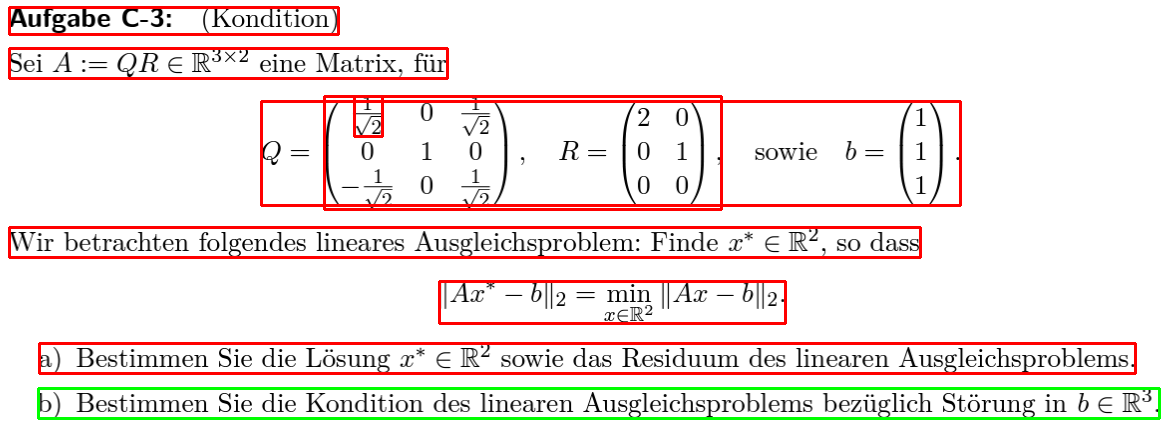
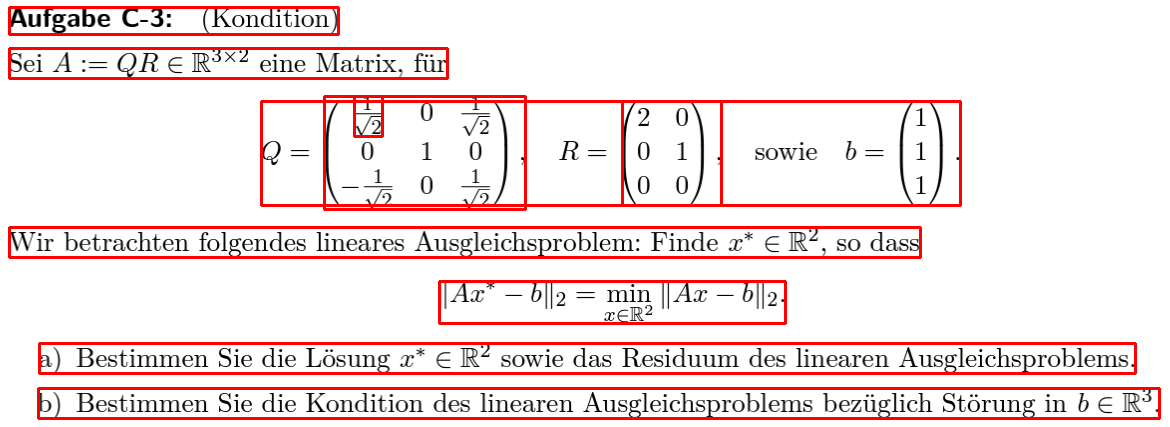
Geometric segmentation.

Changed region(s): [[0.0308, 0.8829, 1.0, 1.0], [0.4308, 0.2131, 0.6154, 0.2436], [0.4615, 0.4871, 0.6154, 0.5176]]

diff --git a/src/llama_vision_project/ocr.py b/src/llama_vision_project/ocr.py
@@ -6,21 +6,54 @@ from texify.model.model import load_model
 from texify.model.processor import load_processor
 import numpy as np
 import time
+from concurrent.futures import ThreadPoolExecutor, Future
+from queue import Queue
+from threading import Event
 
 class OCRProcessor:
     def __init__(self):
         """Initialize OCR processor with necessary configs."""
-        start_time = time.time()
+        self.initialization_done = Event()
+        self.model = None
+        self.processor = None
+        self.tesseract_ready = False
+        
+        # Start initialization in background
+        self.executor = ThreadPoolExecutor(max_workers=2)
+        self.init_future = self.executor.submit(self._init_components)
+
+    def _init_components(self):
+        """Initialize components in background."""
         print("Initializing OCR processor...")
+        start_time = time.time()
         
-        # Configure tesseract path for Windows
-        pytesseract.pytesseract.tesseract_cmd = r'C:\Program Files\Tesseract-OCR\tesseract.exe'
+        # Start both initializations in parallel
+        texify_future = self.executor.submit(self._init_texify)
+        tesseract_future = self.executor.submit(self._init_tesseract)
         
-        # Initialize Texify model and processor
-        print("Loading Texify model...")
-        self.model = load_model()
-        self.processor = load_processor()
+        # Wait for both to complete
+        self.model, self.processor = texify_future.result()
+        self.tesseract_ready = tesseract_future.result()
+        
         print(f"Initialization completed in {time.time() - start_time:.2f}s")
+        self.initialization_done.set()
+    
+    def _init_texify(self):
+        """Initialize Texify model and processor."""
+        print("Loading Texify model...")
+        model = load_model()
+        processor = load_processor()
+        return model, processor
+    
+    def _init_tesseract(self):
+        """Initialize Tesseract OCR."""
+        pytesseract.pytesseract.tesseract_cmd = r'C:\Program Files\Tesseract-OCR\tesseract.exe'
+        try:
+            pytesseract.get_languages()
+            return True
+        except Exception as e:
+            print(f"Warning: Tesseract initialization issue: {e}")
+            return False
 
     def visualize_regions(self, image, text_regions, math_regions, filename='debug_regions.png'):
         """Draw boxes around detected regions for debugging."""
@@ -49,8 +82,9 @@ class OCRProcessor:
         current_y = sorted_boxes[0][1]
 
         # Adjusted tolerances
-        vertical_tolerance = 20  # Reduced vertical tolerance
-        horizontal_tolerance = 30  # Reduced horizontal tolerance for more precise merging
+        vertical_tolerance = 20  # For line detection
+        horizontal_tolerance = 40  # Increased for equation parts
+        equation_tolerance = 150  # For long equations with equals signs
 
         for box in sorted_boxes[1:]:
             x, y, w, h = box
@@ -66,8 +100,19 @@ class OCRProcessor:
                     h_gap = x - (curr_x + curr_w) if x > curr_x + curr_w else curr_x - (x + w)
                     v_gap = abs(y - curr_y)
                     
-                    # More strict merging conditions
-                    if h_gap < horizontal_tolerance and v_gap < vertical_tolerance:
+                    # Check for equation patterns in the regions
+                    region1 = thresh[curr_y:curr_y+curr_h, curr_x:curr_x+curr_w]
+                    region2 = thresh[y:y+h, x:x+w]
+                    text1 = pytesseract.image_to_string(region1, config='--psm 6')
+                    text2 = pytesseract.image_to_string(region2, config='--psm 6')
+                    
+                    # Conditions for merging
+                    basic_merge = h_gap < horizontal_tolerance and v_gap < vertical_tolerance
+                    equation_merge = h_gap < equation_tolerance and ('=' in text1 or '=' in text2)
+                    matrix_merge = h_gap < equation_tolerance and any(c in text1 + text2 for c in ['Q', 'R', 'b']) and \
+                                 any(c in text1 + text2 for c in ['(', ')', '[', ']', '{', '}'])
+                    
+                    if basic_merge or equation_merge or matrix_merge:
                         # Update current box to encompass both
                         left = min(curr_x, x)
                         top = min(curr_y, y)
@@ -83,14 +128,62 @@ class OCRProcessor:
                 if not merge_happened:
                     current_line.append(list(box))
             else:
-                # Add current line to merged boxes and start new line
-                merged.extend(current_line)
-                current_line = [list(box)]
-                current_y = y
+                # Before starting new line, check for matrix continuation
+                merge_with_current = False
+                for curr_box in current_line:
+                    curr_x, curr_y, curr_w, curr_h = curr_box
+                    # Check for vertical matrix patterns
+                    if abs(x - curr_x) < horizontal_tolerance and y - (curr_y + curr_h) < vertical_tolerance:
+                        # Merge vertically for matrices
+                        curr_box[3] = y + h - curr_y
+                        merge_with_current = True
+                        break
+                
+                if not merge_with_current:
+                    # Add current line to merged boxes and start new line
+                    merged.extend(current_line)
+                    current_line = [list(box)]
+                    current_y = y
 
         # Add last line
         merged.extend(current_line)
-        return merged
+
+        # Second pass to merge nearby equation components
+        final_boxes = []
+        for box in merged:
+            merged_with_existing = False
+            x, y, w, h = box
+            region_text = pytesseract.image_to_string(thresh[y:y+h, x:x+w], config='--psm 6')
+            
+            for existing_box in final_boxes:
+                ex, ey, ew, eh = existing_box
+                existing_text = pytesseract.image_to_string(thresh[ey:ey+eh, ex:ex+ew], config='--psm 6')
+                
+                # Check if boxes might be part of the same equation
+                h_gap = abs((x + w/2) - (ex + ew/2))
+                v_gap = abs((y + h/2) - (ey + eh/2))
+                
+                should_merge = False
+                # Merge equation parts
+                if ('=' in region_text or '=' in existing_text) and h_gap < equation_tolerance and v_gap < vertical_tolerance:
+                    should_merge = True
+                # Merge matrix definitions
+                elif any(c in region_text + existing_text for c in ['Q', 'R', 'b']) and h_gap < equation_tolerance:
+                    should_merge = True
+                
+                if should_merge:
+                    # Update existing box to encompass both
+                    existing_box[0] = min(x, ex)
+                    existing_box[1] = min(y, ey)
+                    existing_box[2] = max(x + w, ex + ew) - existing_box[0]
+                    existing_box[3] = max(y + h, ey + eh) - existing_box[1]
+                    merged_with_existing = True
+                    break
+            
+            if not merged_with_existing:
+                final_boxes.append(list(box))
+
+        return final_boxes
 
     def segment_math_text(self, image):
         """Segment image into text and math regions using OpenCV."""
@@ -148,24 +241,17 @@ class OCRProcessor:
                 h_gap = x - (curr_x + curr_w)
                 v_gap = abs(y - curr_y)
                 
-                # More sophisticated merging conditions
-                should_merge = False
-                
                 # Check for horizontal alignment (same line)
                 same_line = v_gap < 20
                 
                 # Check for vertical alignment (like in matrices)
                 vertical_overlap = (y < curr_y + curr_h and y + h > curr_y)
                 
-                # Check for matrix-like structure
-                matrix_pattern = (vertical_overlap and h_gap < 50) or \
-                               (same_line and h_gap < 30)
+                # Initial merge conditions based on geometry
+                should_merge = (same_line and h_gap < 30) or \
+                             (vertical_overlap and h_gap < 50)
                 
-                # Check if boxes are part of the same equation
-                equation_pattern = same_line and h_gap < 100 and \
-                                 (curr_w / curr_h > 1.5 or w / h > 1.5)
-                
-                if matrix_pattern or equation_pattern:
+                if should_merge:
                     # Update current box to encompass both
                     left = min(curr_x, x)
                     top = min(curr_y, y)
@@ -181,43 +267,34 @@ class OCRProcessor:
             
             merged_boxes.append(tuple(current_box))
 
+        # Initial classification based on geometric properties
         text_regions = []
         math_regions = []
 
-        # Classify regions
         for x, y, w, h in merged_boxes:
-            region = image[y:y+h, x:x+w]
-            region_text = pytesseract.image_to_string(region, config='--psm 6')
+            roi = thresh[y:y+h, x:x+w]
             
-            # More precise math detection
+            # Calculate region properties
+            aspect_ratio = w / float(h)
+            density = np.sum(roi > 0) / (w * h)
+            
+            # Count horizontal and vertical lines
+            horizontal_profile = np.sum(roi, axis=1)
+            vertical_profile = np.sum(roi, axis=0)
+            h_lines = len(np.where(horizontal_profile > roi.shape[1] * 0.5)[0])
+            v_lines = len(np.where(vertical_profile > roi.shape[0] * 0.5)[0])
+            
+            # Classify based on geometric features
             is_math = any([
-                # Matrix patterns
-                (w > 50 and h > 50 and any(c in region_text for c in ['(', ')', '[', ']', '{', '}'])),
-                # Equation patterns
-                ('=' in region_text or ':=' in region_text),
-                # Special math symbols
-                any(c in region_text for c in ['∈', '∥', '∗', '×', '√', '∫']),
-                # Vector/matrix notation
-                ('R' in region_text and any(c in region_text for c in ['^', '×', '2', '3'])),
-                # Fraction patterns
-                ('/' in region_text or '\\frac' in region_text or '\\sqrt' in region_text),
-                # Matrix content patterns
-                (w > 100 and h > 50 and any(str(i) in region_text for i in range(10))),
-                # Equation operators
-                any(c in region_text for c in ['+', '-', '*', '/', '^', '_', '||'])
+                # Matrix-like structure
+                (h_lines > 2 or v_lines > 2),
+                # Wide regions likely equations
+                (w > 100 and aspect_ratio > 1.5),
+                # Dense regions with specific aspect ratio (matrices)
+                (density > 0.15 and 0.5 < aspect_ratio < 2.0 and w > 50 and h > 50),
+                # Very wide regions (likely equations)
+                (w > 200)
             ])
-            
-            # Additional checks for matrices
-            if not is_math and w > 50 and h > 50:
-                roi = thresh[y:y+h, x:x+w]
-                # Count horizontal and vertical lines
-                horizontal_profile = np.sum(roi, axis=1)
-                vertical_profile = np.sum(roi, axis=0)
-                h_lines = len(np.where(horizontal_profile > roi.shape[1] * 0.5)[0])
-                v_lines = len(np.where(vertical_profile > roi.shape[0] * 0.5)[0])
-                
-                if h_lines > 2 or v_lines > 2:  # Matrix-like structure detected
-                    is_math = True
 
             if is_math:
                 math_regions.append((x, y, w, h))
@@ -234,37 +311,54 @@ class OCRProcessor:
     def process_image(self, pil_image):
         """Process a PIL Image directly."""
         try:
-            # Convert PIL image to OpenCV format
-            image = cv2.cvtColor(np.array(pil_image), cv2.COLOR_RGB2BGR)
+            start_time = time.time()
             
-            # Segment image into text and math regions
+            # Convert PIL image to OpenCV format and start segmentation immediately
+            image = cv2.cvtColor(np.array(pil_image), cv2.COLOR_RGB2BGR)
             text_regions, math_regions = self.segment_math_text(image)
-
+            
             results = {
                 'text': [],
                 'equations': []
             }
-
+            
+            # Wait for initialization to complete if it hasn't already
+            if not self.initialization_done.is_set():
+                print("Waiting for model initialization to complete...")
+                self.init_future.result()
+            
+            # Process regions in parallel
+            futures = []
+            
             # Process text regions with Tesseract
             if text_regions:
-                start_time = time.time()
                 print("Processing text regions with Tesseract...")
+                text_start = time.time()
                 for x, y, w, h in text_regions:
                     region = pil_image.crop((x, y, x+w, y+h))
-                    text = pytesseract.image_to_string(region)
-                    if text.strip():
-                        results['text'].append(text.strip())
-                print(f"Text processing completed in {time.time() - start_time:.2f}s")
+                    future = self.executor.submit(pytesseract.image_to_string, region)
+                    futures.append(('text', future))
+                print(f"Text processing queued in {time.time() - text_start:.2f}s")
 
             # Process math regions with Texify
             if math_regions:
-                start_time = time.time()
                 print("Processing math regions with Texify...")
+                math_start = time.time()
                 for x, y, w, h in math_regions:
                     region = pil_image.crop((x, y, x+w, y+h))
-                    results_texify = batch_inference([region], self.model, self.processor)
-                    results['equations'].append(results_texify[0])
-                print(f"Math processing completed in {time.time() - start_time:.2f}s")
+                    future = self.executor.submit(
+                        batch_inference, [region], self.model, self.processor
+                    )
+                    futures.append(('math', future))
+                print(f"Math processing queued in {time.time() - math_start:.2f}s")
+
+            # Collect results as they complete
+            for type_, future in futures:
+                result = future.result()
+                if type_ == 'text' and result.strip():
+                    results['text'].append(result.strip())
+                elif type_ == 'math':
+                    results['equations'].append(result[0])
 
             return results
 
